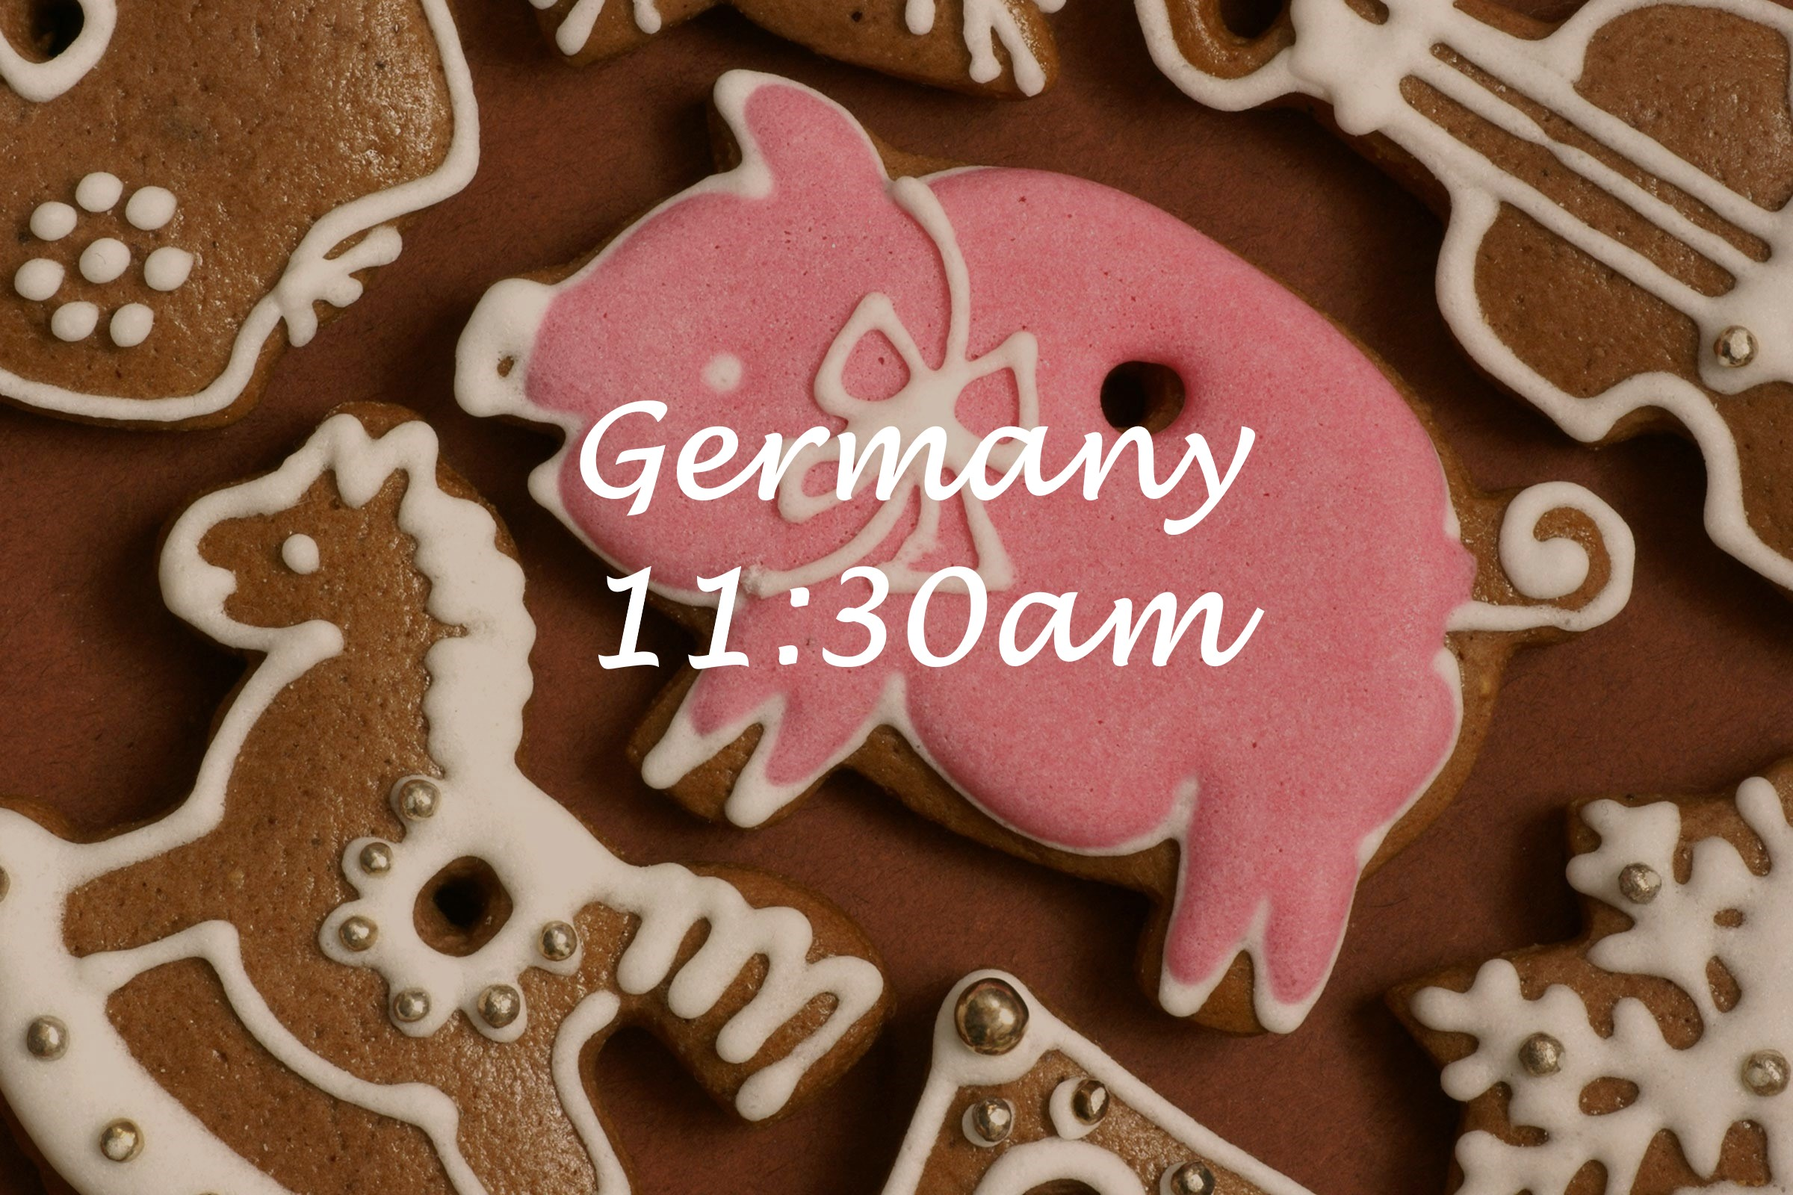
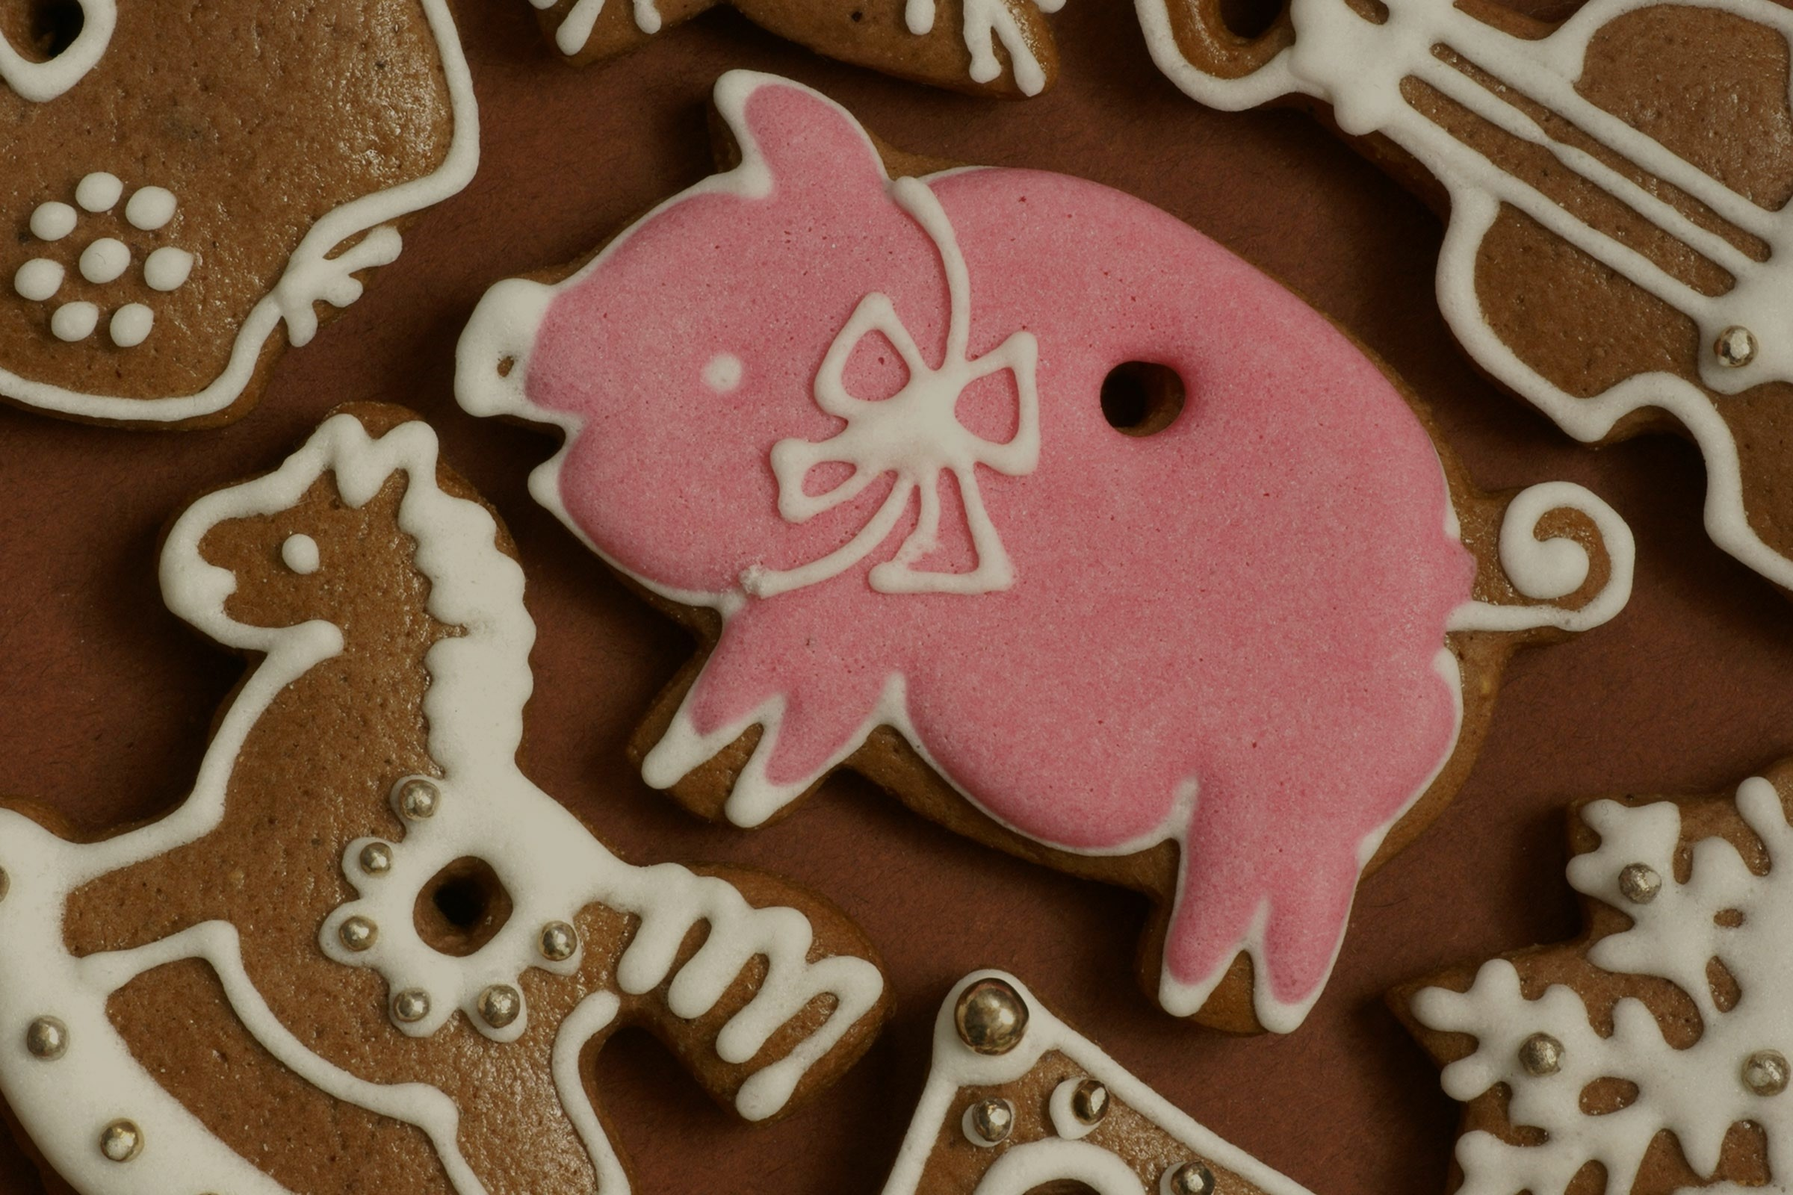
Done!!!!!!

Changed region(s): [[0.3125, 0.3125, 0.7188, 0.4375], [0.3125, 0.4688, 0.7188, 0.5625]]

diff --git a/6.html b/6.html
@@ -4,7 +4,8 @@
     <link rel="icon" href="https://cdn3.iconfinder.com/data/icons/alphabets-and-numbers/98/22-512.png">
     <link rel="stylesheet" type="text/css" href="main.css">
     <link href="https://fonts.googleapis.com/css?family=Open+Sans&display=swap" rel="stylesheet">
-  
+    <link href="https://fonts.googleapis.com/css?family=Caveat+Brush|Dosis|Pacifico|Righteous|Slabo+27px|Yellowtail&display=swap" rel="stylesheet">
+
     <script>
     
     function onclick_southwest_china_cover() {
@@ -119,8 +120,9 @@
       
       <div class="event-card-container"> 
         <button id="southwest-china-cover" class="event-card-cover-past" onclick="onclick_southwest_china_cover()">
-          <img class="event-card-cover-image" src="./images/southwest-china-cover.jpg" />
-          
+          <div class="cover-container" style="background-image: url(./images/southwest-china-cover.jpg)">            
+            <h1 class="event-card-cover-text" style="font-family: 'Pacifico', cursive;" > Southwest China <br> 10:00am </h1>
+          </div>
           <button id="southwest-china" class="event-card-past" >
             <h2><a href="https://thesavvysparrow.com/colored-rice-krispie-treats/"> Colored Rice Krispie (or Kix) Treats </a> </h2>            
             <h3> Location : <a href="https://www.google.com/maps/place/Columbia+View+Apartments/@45.6189191,-122.6227211,17z/data=!3m1!4b1!4m5!3m4!1s0x5495a5f2107100e7:0xcc426cf3ab95568c!8m2!3d45.6189191!4d-122.6205324"> Cecilee's Apartment </a></h3>
@@ -140,8 +142,11 @@
       
       <div class="event-card-container"> 
         <button id="germany-cover" class="event-card-cover-past" onclick="onclick_germany_cover()">
-          <img class="event-card-cover-image" src="./images/germany-cover.jpg" />
-          
+          <div class="cover-container" style="background-image: url(./images/germany-cover.jpg)">            
+            <h1 class="event-card-cover-text" style="font-family: 'Caveat Brush', cursive;" > Germany <br> 11:30am </h1>
+          </div>
+
+
           <button id="germany" class="event-card-past" >
             <h2><a href="http://places.singleplatform.com/lardo/menu?ref=google"> Lunch @ Lardo </a> </h3>            
             <h3> Location : <a href="https://www.google.com/maps/place/Lardo/@45.5170628,-122.6857791,14z/data=!4m8!1m2!2m1!1slardos+portland+oregon!3m4!1s0x0:0xbf8d79c2bad450cf!8m2!3d45.5121062!4d-122.652998"> Lardo (Hawthorne) </a></h3>
@@ -160,11 +165,13 @@
       
       <div class="event-card-container"> 
         <button id="slovenia-cover" class="event-card-cover-past" onclick="onclick_slovenia_cover()">
-          <img class="event-card-cover-image" src="./images/slovenia-cover.jpg" />
-          
+          <div class="cover-container" style="background-image: url(./images/slovenia-cover.jpg)">            
+            <h1 class="event-card-cover-text" style="font-family: 'Pacifico', cursive;" > Slovenia/Estonia <br> 1:30pm </h1>
+          </div>
+
           <button id="slovenia" class="event-card-past" >
-            <h2> Unknown </h2>            
-            <h3> Location : Unknown </h3>
+            <h2> Mini Golf </h2>            
+            <h3> Location : <a href="https://www.google.com/maps/place/Birdie+Time+Pub/@45.5139218,-122.6581757,17z/data=!3m1!4b1!4m5!3m4!1s0x5495a1513dd648f9:0x7b7492d2646bc1f5!8m2!3d45.5139218!4d-122.655987"> Birdie Time </a> </h3>
             <h3> Time : 1:30pm </h3>
             <hr>
             <h2> Slovenia/Estonia </h2>
@@ -180,8 +187,10 @@
       
       <div class="event-card-container"> 
         <button id="ghana-cover" class="event-card-cover-past" onclick="onclick_ghana_cover()">
-          <img class="event-card-cover-image" src="./images/ghana-cover.jpg" />
-          
+          <div class="cover-container" style="background-image: url(./images/ghana-cover.jpg)">            
+            <h1 class="event-card-cover-text" style="font-family: 'Dosis', cursive;" > Ghana <br> 4:30pm </h1>
+          </div>
+
           <button id="ghana" class="event-card-past" >
             <h2> Snax and Relax </h2>            
             <h3> Location : <a href="https://www.google.com/maps/place/Columbia+View+Apartments/@45.6189191,-122.6227211,17z/data=!3m1!4b1!4m5!3m4!1s0x5495a5f2107100e7:0xcc426cf3ab95568c!8m2!3d45.6189191!4d-122.6205324"> Cecilee's Apartment </a></h3>
@@ -199,7 +208,9 @@
       
       <div class="event-card-container"> 
         <button id="peru-cover" class="event-card-cover-past" onclick="onclick_peru_cover()">
-          <img class="event-card-cover-image" src="./images/peru-cover.jpg" />
+          <div class="cover-container" style="background-image: url(./images/peru-cover.jpg)">            
+            <h1 class="event-card-cover-text" style="font-family: 'Yellowtail', cursive;" > Peru <br> 7:00pm </h1>
+          </div>
           
           <button id="peru" class="event-card-past" >
             <h2><a href="http://www.andinarestaurant.com/history/"> Dinner @ Andina </a> </h3>            
@@ -219,8 +230,10 @@
       
       <div class="event-card-container"> 
         <button id="china-cover" class="event-card-cover-current" onclick="onclick_china_cover()">
-          <img class="event-card-cover-image" src="./images/china-cover.jpg" />
-          
+          <div class="cover-container" style="background-image: url(./images/china-cover.jpg)">            
+            <h1 class="event-card-cover-text" style="font-family: 'Caveat Brush', cursive;" > China <br> 9:30pm </h1>
+          </div>
+
           <button id="china" class="event-card-current" >
             <h2> Stargazing </h3>            
             <h3> Location : <a href="https://www.google.com/maps/place/Vista+House/@45.5395754,-122.2465574,17z/data=!3m1!4b1!4m5!3m4!1s0x549595d331b13b2d:0x4c72a4fe3cf86bdb!8m2!3d45.5395754!4d-122.2443687"> Vista House </a></h3>

diff --git a/5.html b/5.html
@@ -93,8 +93,9 @@
       
       <div class="event-card-container"> 
         <button id="southwest-china-cover" class="event-card-cover-past" onclick="onclick_southwest_china_cover()">
-          <img class="event-card-cover-image" src="./images/southwest-china-cover.jpg" />
-          
+          <div class="cover-container" style="background-image: url(./images/southwest-china-cover.jpg)">            
+            <h1 class="event-card-cover-text" style="font-family: 'Pacifico', cursive;" > Southwest China <br> 10:00am </h1>
+          </div>
           <button id="southwest-china" class="event-card-past" >
             <h2><a href="https://thesavvysparrow.com/colored-rice-krispie-treats/"> Colored Rice Krispie (or Kix) Treats </a> </h2>            
             <h3> Location : <a href="https://www.google.com/maps/place/Columbia+View+Apartments/@45.6189191,-122.6227211,17z/data=!3m1!4b1!4m5!3m4!1s0x5495a5f2107100e7:0xcc426cf3ab95568c!8m2!3d45.6189191!4d-122.6205324"> Cecilee's Apartment </a></h3>
@@ -114,8 +115,11 @@
       
       <div class="event-card-container"> 
         <button id="germany-cover" class="event-card-cover-past" onclick="onclick_germany_cover()">
-          <img class="event-card-cover-image" src="./images/germany-cover.jpg" />
-          
+          <div class="cover-container" style="background-image: url(./images/germany-cover.jpg)">            
+            <h1 class="event-card-cover-text" style="font-family: 'Caveat Brush', cursive;" > Germany <br> 11:30am </h1>
+          </div>
+
+
           <button id="germany" class="event-card-past" >
             <h2><a href="http://places.singleplatform.com/lardo/menu?ref=google"> Lunch @ Lardo </a> </h3>            
             <h3> Location : <a href="https://www.google.com/maps/place/Lardo/@45.5170628,-122.6857791,14z/data=!4m8!1m2!2m1!1slardos+portland+oregon!3m4!1s0x0:0xbf8d79c2bad450cf!8m2!3d45.5121062!4d-122.652998"> Lardo (Hawthorne) </a></h3>
@@ -134,11 +138,13 @@
       
       <div class="event-card-container"> 
         <button id="slovenia-cover" class="event-card-cover-past" onclick="onclick_slovenia_cover()">
-          <img class="event-card-cover-image" src="./images/slovenia-cover.jpg" />
-          
+          <div class="cover-container" style="background-image: url(./images/slovenia-cover.jpg)">            
+            <h1 class="event-card-cover-text" style="font-family: 'Pacifico', cursive;" > Slovenia/Estonia <br> 1:30pm </h1>
+          </div>
+
           <button id="slovenia" class="event-card-past" >
-            <h2> Unknown </h2>            
-            <h3> Location : Unknown </h3>
+            <h2> Mini Golf </h2>            
+            <h3> Location : <a href="https://www.google.com/maps/place/Birdie+Time+Pub/@45.5139218,-122.6581757,17z/data=!3m1!4b1!4m5!3m4!1s0x5495a1513dd648f9:0x7b7492d2646bc1f5!8m2!3d45.5139218!4d-122.655987"> Birdie Time </a> </h3>
             <h3> Time : 1:30pm </h3>
             <hr>
             <h2> Slovenia/Estonia </h2>
@@ -154,8 +160,10 @@
       
       <div class="event-card-container"> 
         <button id="ghana-cover" class="event-card-cover-past" onclick="onclick_ghana_cover()">
-          <img class="event-card-cover-image" src="./images/ghana-cover.jpg" />
-          
+          <div class="cover-container" style="background-image: url(./images/ghana-cover.jpg)">            
+            <h1 class="event-card-cover-text" style="font-family: 'Dosis', cursive;" > Ghana <br> 4:30pm </h1>
+          </div>
+
           <button id="ghana" class="event-card-past" >
             <h2> Snax and Relax </h2>            
             <h3> Location : <a href="https://www.google.com/maps/place/Columbia+View+Apartments/@45.6189191,-122.6227211,17z/data=!3m1!4b1!4m5!3m4!1s0x5495a5f2107100e7:0xcc426cf3ab95568c!8m2!3d45.6189191!4d-122.6205324"> Cecilee's Apartment </a></h3>
@@ -173,7 +181,9 @@
       
       <div class="event-card-container"> 
         <button id="peru-cover" class="event-card-cover-current" onclick="onclick_peru_cover()">
-          <img class="event-card-cover-image" src="./images/peru-cover.jpg" />
+          <div class="cover-container" style="background-image: url(./images/peru-cover.jpg)">            
+            <h1 class="event-card-cover-text" style="font-family: 'Yellowtail', cursive;" > Peru <br> 7:00pm </h1>
+          </div>
           
           <button id="peru" class="event-card-current" >
             <h2><a href="http://www.andinarestaurant.com/history/"> Dinner @ Andina </a> </h3>            

diff --git a/4.html b/4.html
@@ -72,8 +72,9 @@
       
       <div class="event-card-container"> 
         <button id="southwest-china-cover" class="event-card-cover-past" onclick="onclick_southwest_china_cover()">
-          <img class="event-card-cover-image" src="./images/southwest-china-cover.jpg" />
-          
+          <div class="cover-container" style="background-image: url(./images/southwest-china-cover.jpg)">            
+            <h1 class="event-card-cover-text" style="font-family: 'Pacifico', cursive;" > Southwest China <br> 10:00am </h1>
+          </div>
           <button id="southwest-china" class="event-card-past" >
             <h2><a href="https://thesavvysparrow.com/colored-rice-krispie-treats/"> Colored Rice Krispie (or Kix) Treats </a> </h2>            
             <h3> Location : <a href="https://www.google.com/maps/place/Columbia+View+Apartments/@45.6189191,-122.6227211,17z/data=!3m1!4b1!4m5!3m4!1s0x5495a5f2107100e7:0xcc426cf3ab95568c!8m2!3d45.6189191!4d-122.6205324"> Cecilee's Apartment </a></h3>
@@ -93,8 +94,11 @@
       
       <div class="event-card-container"> 
         <button id="germany-cover" class="event-card-cover-past" onclick="onclick_germany_cover()">
-          <img class="event-card-cover-image" src="./images/germany-cover.jpg" />
-          
+          <div class="cover-container" style="background-image: url(./images/germany-cover.jpg)">            
+            <h1 class="event-card-cover-text" style="font-family: 'Caveat Brush', cursive;" > Germany <br> 11:30am </h1>
+          </div>
+
+
           <button id="germany" class="event-card-past" >
             <h2><a href="http://places.singleplatform.com/lardo/menu?ref=google"> Lunch @ Lardo </a> </h3>            
             <h3> Location : <a href="https://www.google.com/maps/place/Lardo/@45.5170628,-122.6857791,14z/data=!4m8!1m2!2m1!1slardos+portland+oregon!3m4!1s0x0:0xbf8d79c2bad450cf!8m2!3d45.5121062!4d-122.652998"> Lardo (Hawthorne) </a></h3>
@@ -113,11 +117,13 @@
       
       <div class="event-card-container"> 
         <button id="slovenia-cover" class="event-card-cover-past" onclick="onclick_slovenia_cover()">
-          <img class="event-card-cover-image" src="./images/slovenia-cover.jpg" />
-          
+          <div class="cover-container" style="background-image: url(./images/slovenia-cover.jpg)">            
+            <h1 class="event-card-cover-text" style="font-family: 'Pacifico', cursive;" > Slovenia/Estonia <br> 1:30pm </h1>
+          </div>
+
           <button id="slovenia" class="event-card-past" >
-            <h2> Unknown </h2>            
-            <h3> Location : Unknown </h3>
+            <h2> Mini Golf </h2>            
+            <h3> Location : <a href="https://www.google.com/maps/place/Birdie+Time+Pub/@45.5139218,-122.6581757,17z/data=!3m1!4b1!4m5!3m4!1s0x5495a1513dd648f9:0x7b7492d2646bc1f5!8m2!3d45.5139218!4d-122.655987"> Birdie Time </a> </h3>
             <h3> Time : 1:30pm </h3>
             <hr>
             <h2> Slovenia/Estonia </h2>
@@ -133,8 +139,10 @@
       
       <div class="event-card-container"> 
         <button id="ghana-cover" class="event-card-cover-current" onclick="onclick_ghana_cover()">
-          <img class="event-card-cover-image" src="./images/ghana-cover.jpg" />
-          
+          <div class="cover-container" style="background-image: url(./images/ghana-cover.jpg)">            
+            <h1 class="event-card-cover-text" style="font-family: 'Dosis', cursive;" > Ghana <br> 4:30pm </h1>
+          </div>
+
           <button id="ghana" class="event-card-current" >
             <h2> Snax and Relax </h2>            
             <h3> Location : <a href="https://www.google.com/maps/place/Columbia+View+Apartments/@45.6189191,-122.6227211,17z/data=!3m1!4b1!4m5!3m4!1s0x5495a5f2107100e7:0xcc426cf3ab95568c!8m2!3d45.6189191!4d-122.6205324"> Cecilee's Apartment </a></h3>

diff --git a/3.html b/3.html
@@ -54,8 +54,9 @@
       
       <div class="event-card-container"> 
         <button id="southwest-china-cover" class="event-card-cover-past" onclick="onclick_southwest_china_cover()">
-          <img class="event-card-cover-image" src="./images/southwest-china-cover.jpg" />
-          
+          <div class="cover-container" style="background-image: url(./images/southwest-china-cover.jpg)">            
+            <h1 class="event-card-cover-text" style="font-family: 'Pacifico', cursive;" > Southwest China <br> 10:00am </h1>
+          </div>
           <button id="southwest-china" class="event-card-past" >
             <h2><a href="https://thesavvysparrow.com/colored-rice-krispie-treats/"> Colored Rice Krispie (or Kix) Treats </a> </h2>            
             <h3> Location : <a href="https://www.google.com/maps/place/Columbia+View+Apartments/@45.6189191,-122.6227211,17z/data=!3m1!4b1!4m5!3m4!1s0x5495a5f2107100e7:0xcc426cf3ab95568c!8m2!3d45.6189191!4d-122.6205324"> Cecilee's Apartment </a></h3>
@@ -75,8 +76,11 @@
       
       <div class="event-card-container"> 
         <button id="germany-cover" class="event-card-cover-past" onclick="onclick_germany_cover()">
-          <img class="event-card-cover-image" src="./images/germany-cover.jpg" />
-          
+          <div class="cover-container" style="background-image: url(./images/germany-cover.jpg)">            
+            <h1 class="event-card-cover-text" style="font-family: 'Caveat Brush', cursive;" > Germany <br> 11:30am </h1>
+          </div>
+
+
           <button id="germany" class="event-card-past" >
             <h2><a href="http://places.singleplatform.com/lardo/menu?ref=google"> Lunch @ Lardo </a> </h3>            
             <h3> Location : <a href="https://www.google.com/maps/place/Lardo/@45.5170628,-122.6857791,14z/data=!4m8!1m2!2m1!1slardos+portland+oregon!3m4!1s0x0:0xbf8d79c2bad450cf!8m2!3d45.5121062!4d-122.652998"> Lardo (Hawthorne) </a></h3>
@@ -95,11 +99,13 @@
       
       <div class="event-card-container"> 
         <button id="slovenia-cover" class="event-card-cover-current" onclick="onclick_slovenia_cover()">
-          <img class="event-card-cover-image" src="./images/slovenia-cover.jpg" />
-          
+          <div class="cover-container" style="background-image: url(./images/slovenia-cover.jpg)">            
+            <h1 class="event-card-cover-text" style="font-family: 'Pacifico', cursive;" > Slovenia/Estonia <br> 1:30pm </h1>
+          </div>
+
           <button id="slovenia" class="event-card-current" >
-            <h2> Unknown </h2>            
-            <h3> Location : Unknown </h3>
+            <h2> Mini Golf </h2>            
+            <h3> Location : <a href="https://www.google.com/maps/place/Birdie+Time+Pub/@45.5139218,-122.6581757,17z/data=!3m1!4b1!4m5!3m4!1s0x5495a1513dd648f9:0x7b7492d2646bc1f5!8m2!3d45.5139218!4d-122.655987"> Birdie Time </a> </h3>
             <h3> Time : 1:30pm </h3>
             <hr>
             <h2> Slovenia/Estonia </h2>

diff --git a/2.html b/2.html
@@ -39,8 +39,9 @@
       
       <div class="event-card-container"> 
         <button id="southwest-china-cover" class="event-card-cover-past" onclick="onclick_southwest_china_cover()">
-          <img class="event-card-cover-image" src="./images/southwest-china-cover.jpg" />
-          
+          <div class="cover-container" style="background-image: url(./images/southwest-china-cover.jpg)">            
+            <h1 class="event-card-cover-text" style="font-family: 'Pacifico', cursive;" > Southwest China <br> 10:00am </h1>
+          </div>
           <button id="southwest-china" class="event-card-past" >
             <h2><a href="https://thesavvysparrow.com/colored-rice-krispie-treats/"> Colored Rice Krispie (or Kix) Treats </a> </h2>            
             <h3> Location : <a href="https://www.google.com/maps/place/Columbia+View+Apartments/@45.6189191,-122.6227211,17z/data=!3m1!4b1!4m5!3m4!1s0x5495a5f2107100e7:0xcc426cf3ab95568c!8m2!3d45.6189191!4d-122.6205324"> Cecilee's Apartment </a></h3>
@@ -60,8 +61,11 @@
       
       <div class="event-card-container"> 
         <button id="germany-cover" class="event-card-cover-current" onclick="onclick_germany_cover()">
-          <img class="event-card-cover-image" src="./images/germany-cover.jpg" />
-          
+          <div class="cover-container" style="background-image: url(./images/germany-cover.jpg)">            
+            <h1 class="event-card-cover-text" style="font-family: 'Caveat Brush', cursive;" > Germany <br> 11:30am </h1>
+          </div>
+
+
           <button id="germany" class="event-card-current" >
             <h2><a href="http://places.singleplatform.com/lardo/menu?ref=google"> Lunch @ Lardo </a> </h3>            
             <h3> Location : <a href="https://www.google.com/maps/place/Lardo/@45.5170628,-122.6857791,14z/data=!4m8!1m2!2m1!1slardos+portland+oregon!3m4!1s0x0:0xbf8d79c2bad450cf!8m2!3d45.5121062!4d-122.652998"> Lardo (Hawthorne) </a></h3>

diff --git a/1.html b/1.html
@@ -28,8 +28,9 @@
       
       <div class="event-card-container"> 
         <button id="southwest-china-cover" class="event-card-cover-current" onclick="onclick_southwest_china_cover()">
-          <img class="event-card-cover-image" src="./images/southwest-china-cover.jpg" />
-          
+          <div class="cover-container" style="background-image: url(./images/southwest-china-cover.jpg)">            
+            <h1 class="event-card-cover-text" style="font-family: 'Pacifico', cursive;" > Southwest China <br> 10:00am </h1>
+          </div>
           <button id="southwest-china" class="event-card-current" >
             <h2><a href="https://thesavvysparrow.com/colored-rice-krispie-treats/"> Colored Rice Krispie (or Kix) Treats </a> </h2>            
             <h3> Location : <a href="https://www.google.com/maps/place/Columbia+View+Apartments/@45.6189191,-122.6227211,17z/data=!3m1!4b1!4m5!3m4!1s0x5495a5f2107100e7:0xcc426cf3ab95568c!8m2!3d45.6189191!4d-122.6205324"> Cecilee's Apartment </a></h3>

diff --git a/main.css b/main.css
@@ -79,6 +79,7 @@ button:{
 
 .map {
   width : 100%;
+  height : 500px;
   border-radius : 5px;
   box-shadow: 3px 3px 7px 0px rgba(0,0,0,0.75) ,-3px -3px 7px 0px rgba(60,60,60,0.5);
   cursor : pointer;
@@ -91,6 +92,26 @@ button:{
   border-radius : 5px;
   margin-top : 20px;
   text-align : left;
+}
+
+.cover-container {
+  position : relative;
+  left : -2px;
+  top : 0px;
+  height : 100%;
+  width : 101%;
+  background-repeat : none;
+  background-size : cover;
+  color : white;
+}
+
+.event-card-cover-text {
+  font-size : 70px;
+  color : white;
+  margin: 0 auto;
+  text-align: center;
+  width : 100%;
+  padding-top : 20%;
 }
 
 .event-card-container-locked {
